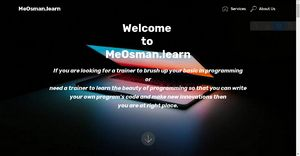
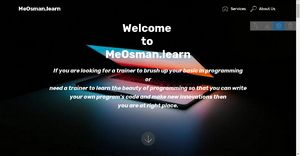
Second Commit

Changed region(s): [[0.81, 0.1282, 0.99, 0.2051], [0.48, 0.8974, 0.51, 0.9231]]

diff --git a/index.html b/index.html
@@ -61,7 +61,7 @@
     </nav>
 </section>
 
-<section class="engine"><a href="https://mobiri.se/c">site builder</a></section><section class="cid-qTkA127IK8 mbr-fullscreen mbr-parallax-background" id="header2-1">
+<section class="engine"><a href="https://mobiri.se/m">free web design templates</a></section><section class="cid-qTkA127IK8 mbr-fullscreen mbr-parallax-background" id="header2-1">
 
     
 
@@ -271,17 +271,6 @@
     </div>
 </section>
 
-<section class="cid-r2ANKPxfWR" id="video2-r">
-
-    
-    
-    <figure class="mbr-figure align-center">
-        <div class="video-block" style="width: 100%;">
-            <div><iframe class="mbr-embedded-video" src="https://www.youtube.com/embed/_Nua3Cjdik0?rel=0&amp;amp;showinfo=0&amp;autoplay=0&amp;loop=1&amp;playlist=_Nua3Cjdik0" width="800" height="600" frameborder="0" allowfullscreen></iframe></div>
-        </div>
-    </figure>
-</section>
-
 <section class="mbr-section article content9 cid-r2A7Mz6OkX" id="content9-l">
     
      
@@ -342,6 +331,17 @@
     </div>
 </section>
 
+<section class="cid-r2ANKPxfWR" id="video2-r">
+
+    
+    
+    <figure class="mbr-figure align-center">
+        <div class="video-block" style="width: 100%;">
+            <div><iframe class="mbr-embedded-video" src="https://www.youtube.com/embed/_Nua3Cjdik0?rel=0&amp;amp;showinfo=0&amp;autoplay=0&amp;loop=1&amp;playlist=_Nua3Cjdik0" width="800" height="600" frameborder="0" allowfullscreen></iframe></div>
+        </div>
+    </figure>
+</section>
+
 <section class="cid-r2AOX6PuWc mbr-fullscreen mbr-parallax-background" id="header15-s">
 
     
@@ -361,7 +361,7 @@
         <div class="media-container-column" data-form-type="formoid">
             <div data-form-alert="" hidden="" class="align-center">Thanks for filling out the form!
 You'll be contacted within 24 hours.</div>
[2 lines of base64/hex data omitted]
                 <div data-for="name">
                     <div class="form-group">
                         <input type="text" class="form-control px-3" name="name" data-form-field="Name" placeholder="Name" required="" id="name-header15-s">
@@ -392,42 +392,18 @@ You'll be contacted within 24 hours.</div>
     
 </section>
 
-<section class="cid-r2ATegfLMC" id="footer5-t">
+<section once="" class="cid-r2BssJmx27" id="footer6-u">
 
     
 
     
 
     <div class="container">
-        <div class="media-container-row">
-            <div class="col-md-3">
-                <div class="media-wrap">
-                    
-                       <img src="assets/images/mbr-1-192x128.jpg" alt="Mobirise" title="">
-                    
-                </div>
-            </div>
-            <div class="col-md-9">
-                <p class="mbr-text align-right links mbr-fonts-style display-7">
-                    <a href="index.html#testimonials2-c" class="text-black">ABOUT</a> &nbsp; &nbsp;<a href="index.html#header15-s" class="text-black">CONTACT</a>
+        <div class="media-container-row align-center mbr-white">
+            <div class="col-12">
+                <p class="mbr-text mb-0 mbr-fonts-style display-7">
+                    © Copyright 2018 MeOsman.learn - All Rights Reserved
                 </p>
-            </div>
-        </div>
-        <div class="footer-lower">
-            <div class="media-container-row">
-                <div class="col-md-12">
-                    <hr>
-                </div>
-            </div>
-            <div class="media-container-row mbr-white">
-                <div class="col-md-6 copyright">
-                    <p class="mbr-text mbr-fonts-style display-7">
-                        © Copyright 2018 <strong>MeOsman.learn</strong> - All Rights Reserved
-                    </p>
-                </div>
-                <div class="col-md-6">
-                    
-                </div>
             </div>
         </div>
     </div>

diff --git a/assets/mobirise/css/mbr-additional.css b/assets/mobirise/css/mbr-additional.css
@@ -1946,18 +1946,6 @@ body {
 .cid-r2zGmlSP9W .price-term {
   color: #ff3366;
 }
-.cid-r2ANKPxfWR {
-  background: #ffffff;
-}
-.cid-r2ANKPxfWR .video-block {
-  margin: auto;
-  width: 100% !important;
-}
-@media (max-width: 768px) {
-  .cid-r2ANKPxfWR .video-block {
-    width: 100% !important;
-  }
-}
 .cid-r2A7Mz6OkX {
   padding-top: 30px;
   padding-bottom: 30px;
@@ -2025,6 +2013,18 @@ body {
     font-size: 20px !important;
   }
 }
+.cid-r2ANKPxfWR {
+  background: #ffffff;
+}
+.cid-r2ANKPxfWR .video-block {
+  margin: auto;
+  width: 100% !important;
+}
+@media (max-width: 768px) {
+  .cid-r2ANKPxfWR .video-block {
+    width: 100% !important;
+  }
+}
 .cid-r2AOX6PuWc {
   background-image: url("../../../assets/images/contact-750x500.jpg");
 }
@@ -2041,72 +2041,11 @@ body {
     padding-right: 5rem;
   }
 }
-.cid-r2ATegfLMC {
-  padding-top: 45px;
-  padding-bottom: 45px;
-  background-color: #ffffff;
+.cid-r2BssJmx27 {
+  padding-top: 30px;
+  padding-bottom: 30px;
+  background-color: #2e2e2e;
 }
-@media (max-width: 767px) {
-  .cid-r2ATegfLMC .media-wrap {
-    margin-bottom: 1rem;
-    text-align: center;
-  }
-}
-.cid-r2ATegfLMC .media-wrap .mbr-iconfont-logo {
-  font-size: 7rem;
-  color: #f36;
-}
-.cid-r2ATegfLMC .media-wrap img {
-  height: 6rem;
-}
-.cid-r2ATegfLMC .mbr-text {
-  color: #767676;
-}
-@media (max-width: 767px) {
-  .cid-r2ATegfLMC .footer-lower .copyright {
-    margin-bottom: 1rem;
-    text-align: center;
-  }
-}
-.cid-r2ATegfLMC .footer-lower hr {
-  margin: 1rem 0;
-  border-color: #000;
-  opacity: .05;
-}
-.cid-r2ATegfLMC .footer-lower .social-list {
-  padding-left: 0;
-  margin-bottom: 0;
-  list-style: none;
-  display: flex;
-  flex-wrap: wrap;
-  justify-content: flex-end;
-  -webkit-justify-content: flex-end;
-}
-.cid-r2ATegfLMC .footer-lower .social-list .mbr-iconfont-social {
-  font-size: 1.3rem;
-  color: #232323;
-}
-.cid-r2ATegfLMC .footer-lower .social-list .soc-item {
-  margin: 0 .5rem;
-}
-.cid-r2ATegfLMC .footer-lower .social-list a {
-  margin: 0;
-  opacity: .5;
-  -webkit-transition: .2s linear;
-  transition: .2s linear;
-}
-.cid-r2ATegfLMC .footer-lower .social-list a:hover {
-  opacity: 1;
-}
-@media (max-width: 767px) {
-  .cid-r2ATegfLMC .footer-lower .social-list {
-    justify-content: center;
-    -webkit-justify-content: center;
-  }
-}
-.cid-r2ATegfLMC .copyright > p B {
-  color: #fc6929;
-}
-.cid-r2ATegfLMC .copyright > p {
-  color: #000000;
+.cid-r2BssJmx27 .media-container-row .mbr-text {
+  color: #ffffff;
 }
